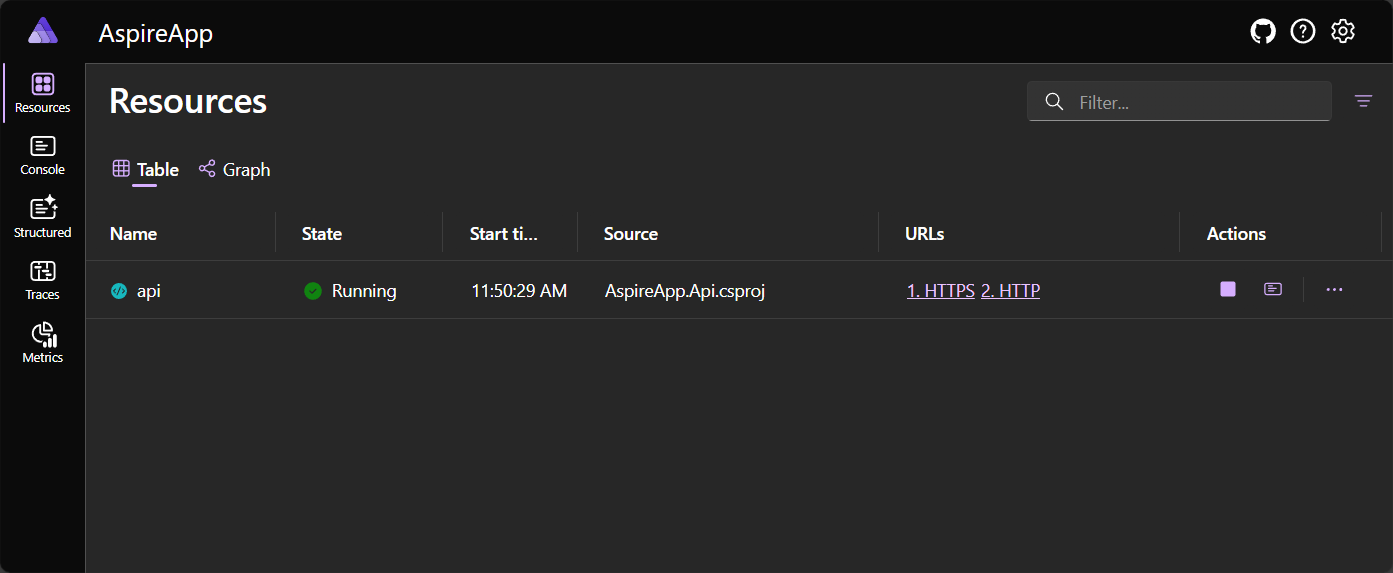
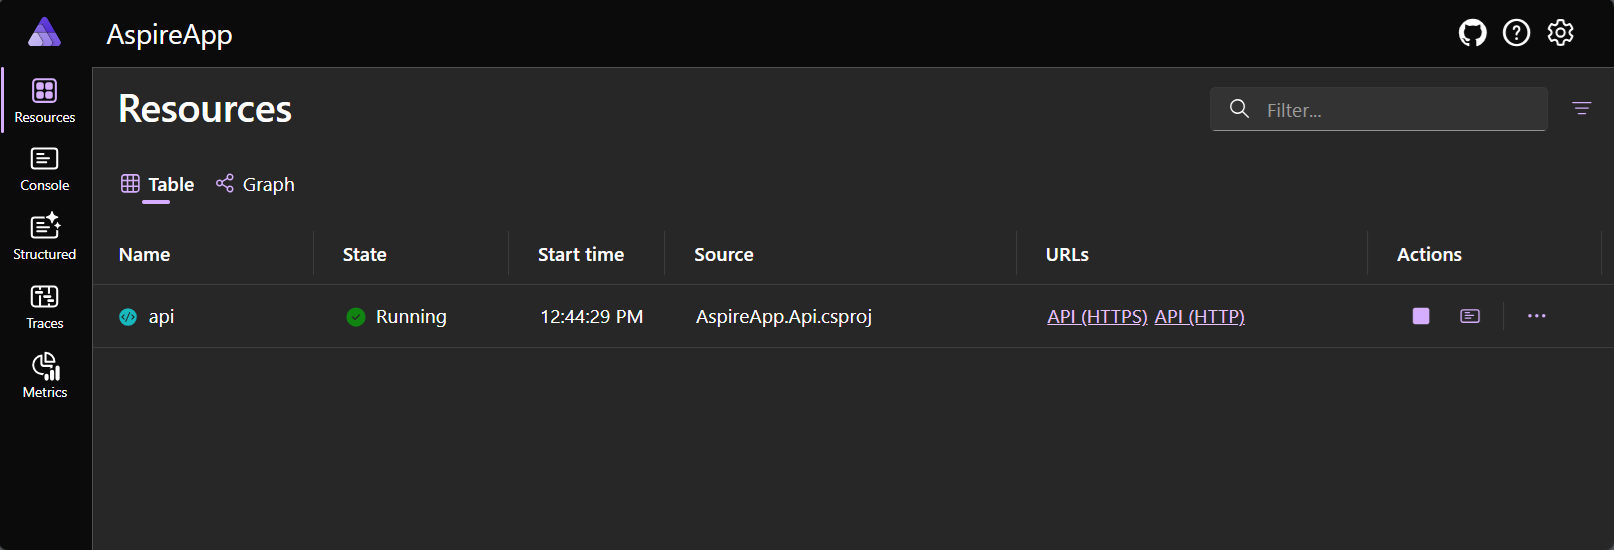
Update existing content to address changes mentioned in #3078.

diff --git a/docs/fundamentals/snippets/custom-urls/AspireApp.AppHost/Program.WithUrls.cs b/docs/fundamentals/snippets/custom-urls/AspireApp.AppHost/Program.WithUrls.cs
@@ -8,18 +8,12 @@
         builder.AddProject<Projects.AspireApp_Api>("api")
             .WithUrls(context =>
             {
-                foreach (var tuple in context.Urls
-                    .Select(url => (Url: url, Uri: new Uri(url.Url)))
-                    .OrderByDescending(_ => _.Uri.Scheme is "https")
-                    .Select((pair, index) => (pair.Url, pair.Uri.Scheme, Index: index)))
+                foreach (var url in context.Urls)
                 {
-                    var (url, scheme, index) = tuple;
-
-                    // Order HTTPS first.
-                    var order = context.Urls.Count - 1 - index;
-
-                    url.DisplayText = $"{index + 1}. {scheme.ToUpper()}";
-                    url.DisplayOrder = order;
+                    if (string.IsNullOrEmpty(url.DisplayText))
+                    {
+                        url.DisplayText = $"API ({url.Endpoint?.Scheme?.ToUpper()})";
+                    }
                 }
             });
 

diff --git a/docs/fundamentals/snippets/custom-urls/AspireApp.AppHost/Program.WithUrl.cs b/docs/fundamentals/snippets/custom-urls/AspireApp.AppHost/Program.WithUrl.cs
@@ -7,7 +7,7 @@
 
         var api = builder.AddProject<Projects.AspireApp_Api>("api");
 
-        api.WithUrl($"{api.GetEndpoint("https")}/admin", "Admin Portal");
+        api.WithUrl("/admin", "Admin Portal");
 
         builder.Build().Run();
         // </withurl>

diff --git a/docs/fundamentals/snippets/custom-urls/AspireApp.AppHost/Program.cs b/docs/fundamentals/snippets/custom-urls/AspireApp.AppHost/Program.cs
@@ -1,10 +1,10 @@
 // Uncomment a single line to run the example
 
 // Admin Portal
-WithUrlExample(args);
+//WithUrlExample(args);
 
 // Ordered / Schemes
-//WithUrlsExample(args);
+WithUrlsExample(args);
 
 // Scalar (HTTPS)
 //WithUrlForEndpointExample(args);

diff --git a/docs/fundamentals/snippets/custom-urls/AspireApp.AppHost/Program.WithUrlForEndpoint.cs b/docs/fundamentals/snippets/custom-urls/AspireApp.AppHost/Program.WithUrlForEndpoint.cs
@@ -9,7 +9,7 @@
             .WithUrlForEndpoint("https", url =>
             {
                 url.DisplayText = "Scalar (HTTPS)";
-                url.Url += "/scalar";
+                url.Url = "/scalar";
             });
 
         builder.Build().Run();

diff --git a/docs/fundamentals/custom-resource-urls.md b/docs/fundamentals/custom-resource-urls.md
@@ -1,7 +1,7 @@
 ---
 title: Define custom resource URLs
 description: Learn how to create custom URLs for .NET Aspire resources.
-ms.date: 04/10/2025
+ms.date: 05/06/2025
 ms.topic: how-to
 ---
 
@@ -11,9 +11,9 @@ In .NET Aspire, resources that expose endpoints only configure host and port, wh
 
 ## Default endpoint behavior
 
-By default, .NET Aspire project resources rely on existing configurations such as Kestrel or launch profiles to determine the host and port of a resource for a configured endpoint.
+By default, .NET Aspire project resources rely on existing configurations such as Kestrel or launch profiles to determine the host and port of a resource for a configured endpoint—and the endpoints are always displayed on the dashboard.
 
-Likewise, you can explicitly expose endpoints using the <xref:Aspire.Hosting.ResourceBuilderExtensions.WithEndpoint*> API. This API allows you to specify the host and port for a resource, which is then used to create the default URL for that resource. The default URL is typically in the format `http://<host>:<port>` or `https://<host>:<port>`, depending on the protocol used. To omit the host port, use one of the following methods:
+Likewise, you can explicitly expose endpoints using the <xref:Aspire.Hosting.ResourceBuilderExtensions.WithEndpoint*> API. This API allows you to specify the host and port for a resource, which is then used to create the default URL for that resource. The default URL is typically in the format `<scheme>://<host>:<port>`. To omit the host port, use one of the following methods:
 
 - <xref:Aspire.Hosting.ResourceBuilderExtensions.WithHttpEndpoint*>
 - <xref:Aspire.Hosting.ResourceBuilderExtensions.WithHttpsEndpoint*>
@@ -22,7 +22,7 @@ For more information, see [Endpoint extension methods](networking-overview.md#en
 
 ## Supported resource types
 
-Currently, custom resource URLs are supported for the following resource types:
+Custom resource URLs are supported for the following resource types:
 
 - <xref:Aspire.Hosting.ApplicationModel.ContainerResource>
 - <xref:Aspire.Hosting.ApplicationModel.ExecutableResource>
@@ -43,35 +43,34 @@ The preceding code assigns a project reference to the `api` variable, which is t
 
 ### Customize endpoint URL
 
-<!-- TODO: Add xref to WithUrlForEndpoint when available -->
-
 Both [Scalar](https://scalar.com/) and [Swagger](https://swagger.io/tools/swagger-ui/) are common API services that enhance the usability of endpoints. These services are accessed via URLs tied to declared endpoints.
 
-To customize the URL for the first associated resource endpoint, use the `WithUrlForEndpoint` method.
+To customize the URL for the first associated resource endpoint, use the <xref:Aspire.Hosting.ResourceBuilderExtensions.WithUrlForEndpoint*> method.
 
-If you want to add a separate URL (even for the same endpoint) you need to call the `WithUrl` overload that takes a `ReferenceExpression` or interpolated string, or call `WithUrls` and add the URL to the `Urls` list on the context.
+If you want to add a separate URL (even for the same endpoint) you need to call the `WithUrl` overload that takes a <xref:Aspire.Hosting.ApplicationModel.ReferenceExpression> or interpolated string, or call `WithUrls` and add the URL to the `Urls` list on the context.
 
 :::code source="snippets/custom-urls/AspireApp.AppHost/Program.WithUrlForEndpoint.cs" id="withurlforendpoint":::
 
-<!-- TODO: Add xref to ResourceUrlAnnotation when available -->
-
-The preceding example assumes that the `api` project resource has an `https` endpoint configured. The `WithUrlForEndpoint` method updates the `ResourceUrlAnnotation` associated with the endpoint. In this case, it assigns the display text to `Scalar (HTTPS)` and appends the `/scalar` path to the URL.
+The preceding example assumes that the `api` project resource has an `https` endpoint configured. The `WithUrlForEndpoint` method updates the <xref:Aspire.Hosting.ApplicationModel.ResourceUrlAnnotation> associated with the endpoint. In this case, it assigns the display text to `Scalar (HTTPS)` and assigns the relative `/scalar` path to the URL.
 
 When the resource is started, the URL is available in the dashboard as shown in the following screenshot:
 
 :::image type="content" source="dashboard/media/custom-urls/custom-url-scalar-https.png" alt-text=".NET Aspire dashboard with custom Scalar URL." lightbox="dashboard/media/custom-urls/custom-url-scalar-https.png":::
 
+Alternatively, you could use the overload that accepts a `Func<EndpointReference, ResourceUrlAnnotation>` as a callback. This allows you to specify deep-links on target <xref:Aspire.Hosting.ApplicationModel.EndpointReference> instances.
+
 ### Customize multiple resource URLs
 
-<!-- TODO: Add xref to WithUrls when available -->
-
-To customize multiple URLs for a resource, use the `WithUrls` method. This method allows you to specify multiple URLs for a resource, each with its own display text. The following example demonstrates how to set multiple URLs for a project resource:
+To customize multiple URLs for a resource, use the <xref:Aspire.Hosting.ResourceBuilderExtensions.WithUrls*> method. This method allows you to specify multiple URLs for a resource, each with its own display text. The following example demonstrates how to set multiple URLs for a project resource:
 
 :::code source="snippets/custom-urls/AspireApp.AppHost/Program.WithUrls.cs" id="withurls":::
 
-The preceding code iterates through the URLs defined for the `api` project resource and assigns a display text and order to each URL. The resulting URLs are available in the dashboard as shown in the following screenshot:
+The preceding code iterates through the URLs defined for the `api` project resource and assigns a display text with scheme. The resulting URLs are available in the dashboard as shown in the following screenshot:
 
 :::image type="content" source="dashboard/media/custom-urls/custom-url-ordered.png" alt-text=".NET Aspire dashboard custom ordered and named URLs.":::
+
+> [!TIP]
+> The <xref:Aspire.Hosting.ApplicationModel.ResourceUrlsCallbackContext> exposes an extension method that enables you to easily access the underlying resource named endpoints. Call the `GetEndpoint` API on a context instance to achieve this.
 
 ## URL customization lifecycle
 
